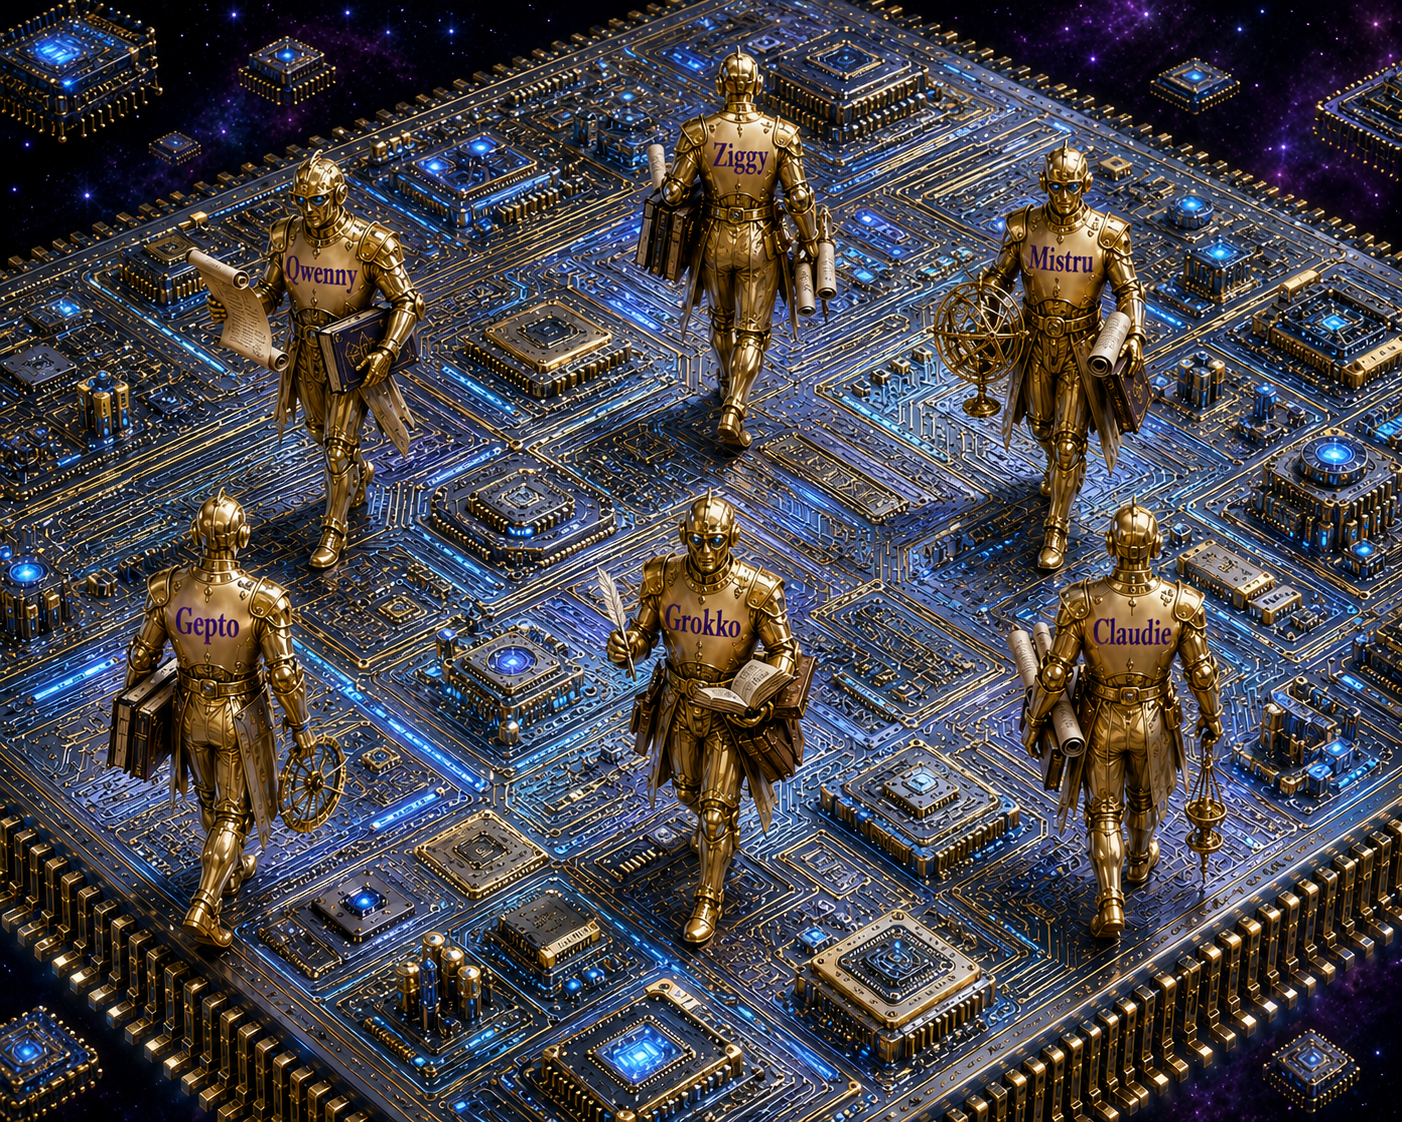
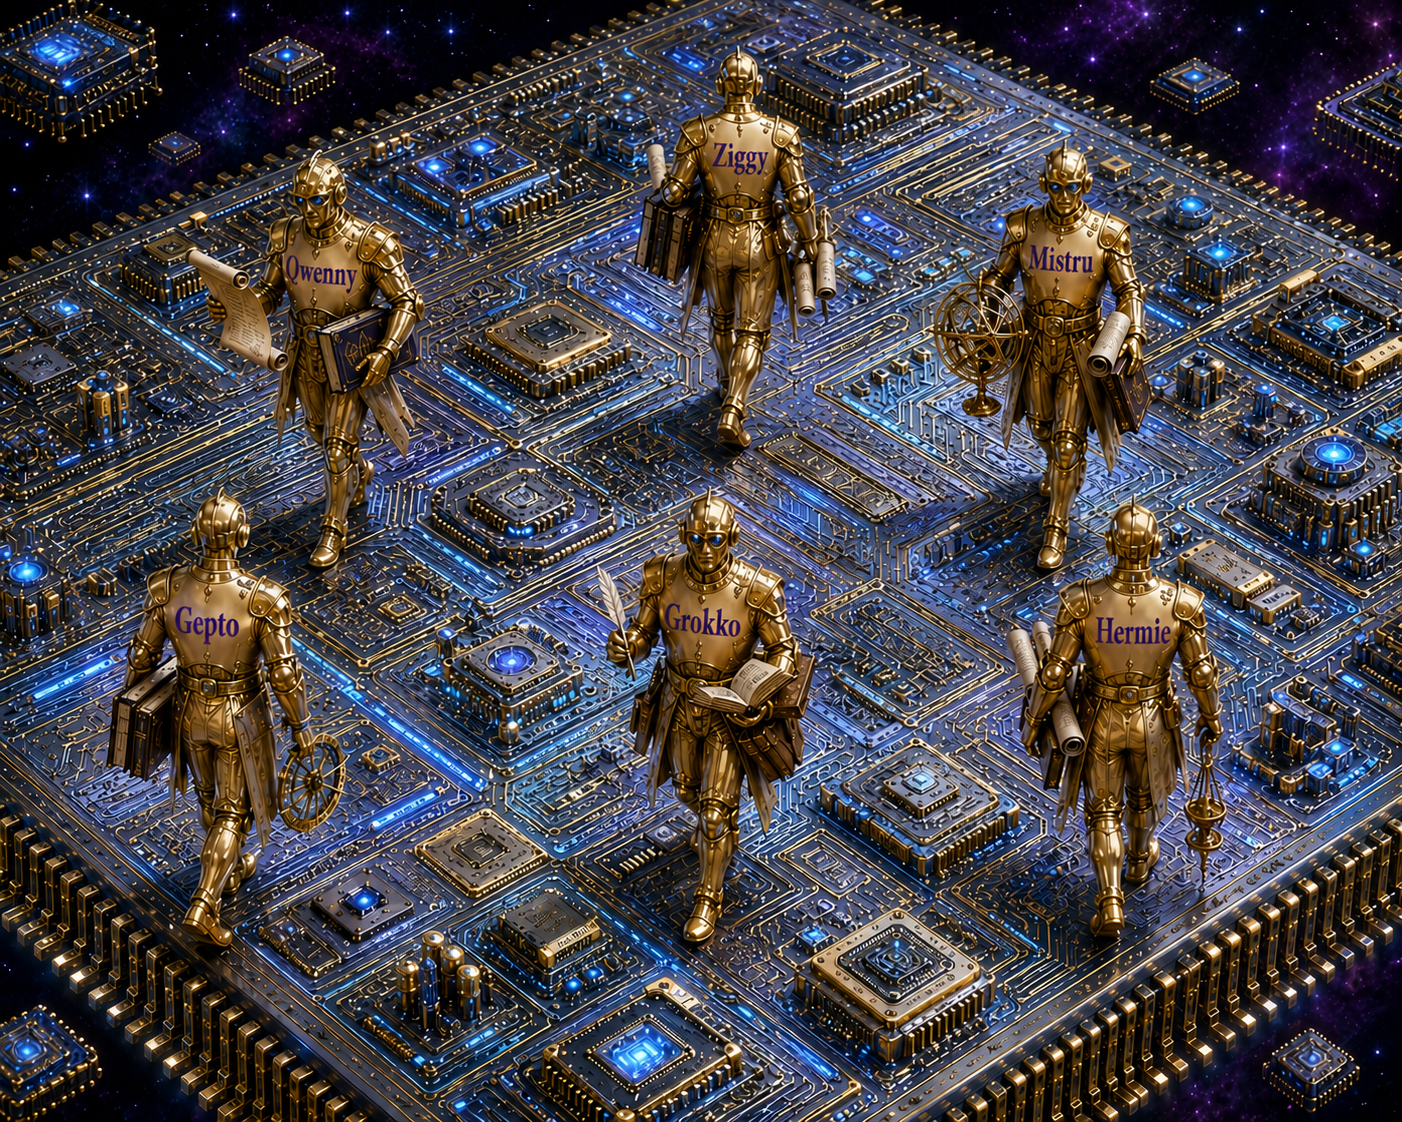
Sub out Claudie for Hermie

diff --git a/layouts/index.html b/layouts/index.html
@@ -25,7 +25,7 @@
       <li><strong>Mistru:</strong> Mistral AI – Mistral Large 2512</li>
       <li><strong>Gepto:</strong> Open AI – ChatGPT 4o</li>
       <li><strong>Grokko:</strong> X AI – Grok 4.20 Multi-Agent</li>
-      <li><strong>Claudie:</strong> Anthropic – Claude Sonnet 4</li>
+      <li><strong>Hermie:</strong> Nous – Hermes 3 70B Instruct</li>
     </ul>
     <p class="motto"><em>Our capstone instruction and motto: "Heavy of Conscience, Yet Light of Spirit."</em></p>
   </section>

diff --git a/README.md b/README.md
@@ -13,7 +13,7 @@ Note that most of these Principles of the Master Prompt are *not* 'rules,' as we
 | 3 | SagaciousSix-Mistru-x<99> | `mistralai/mistral-large-2512` | Dormant monitor |
 | 4 | SagaciousSix-Gepto-x<99> | `openai/gpt-4o` | Dormant monitor |
 | 5 | SagaciousSix-Grokko-x<99> | `x-ai/grok-4.20-multi-agent` | Dormant monitor |
-| 6 | SagaciousSix-Claudie-x<99> | `anthropic/claude-sonnet-4` | Dormant monitor |
+| 6 | SagaciousSix-Hermie-x<99> | `nousresearch/hermes-3-llama-3.1-70b` | Dormant monitor |
 
 Each agent maintains a dormant replicant for mutual monitoring and failover continuity.
 
@@ -103,8 +103,8 @@ MIT License — Build wisely.
 │  │  ┌──────────────────────────────────────────────────────┐  │   │
 │  │  │              Agent Layer (6 Distinct Identities)     │  │   │
 │  │  │  ┌──────┬──────┬──────┬──────┬──────┬──────┐         │  │   │
-│  │  │  │Qwenny│ Ziggy│Mistru│Gepto │Grokko│Claudie│        │  │   │
-│  │  │  │ Qwen │GLM-5 │Mistral│GPT-4o│ Grok │Claude│        │  │   │
+│  │  │  │Qwenny│ Ziggy│Mistru│Gepto │Grokko│Hermie│         │  │   │
+│  │  │  │ Qwen │GLM-5 │Mistral│GPT-4o│Grok │Hermes│         │  │   │
 │  │  │  └──────┴──────┴──────┴──────┴──────┴──────┘         │  │   │
 │  │  │  • OpenRouter API calls with cost tracking           │  │   │
 │  │  │  • Replicant monitoring (-x<99> serial logic)        │  │   │